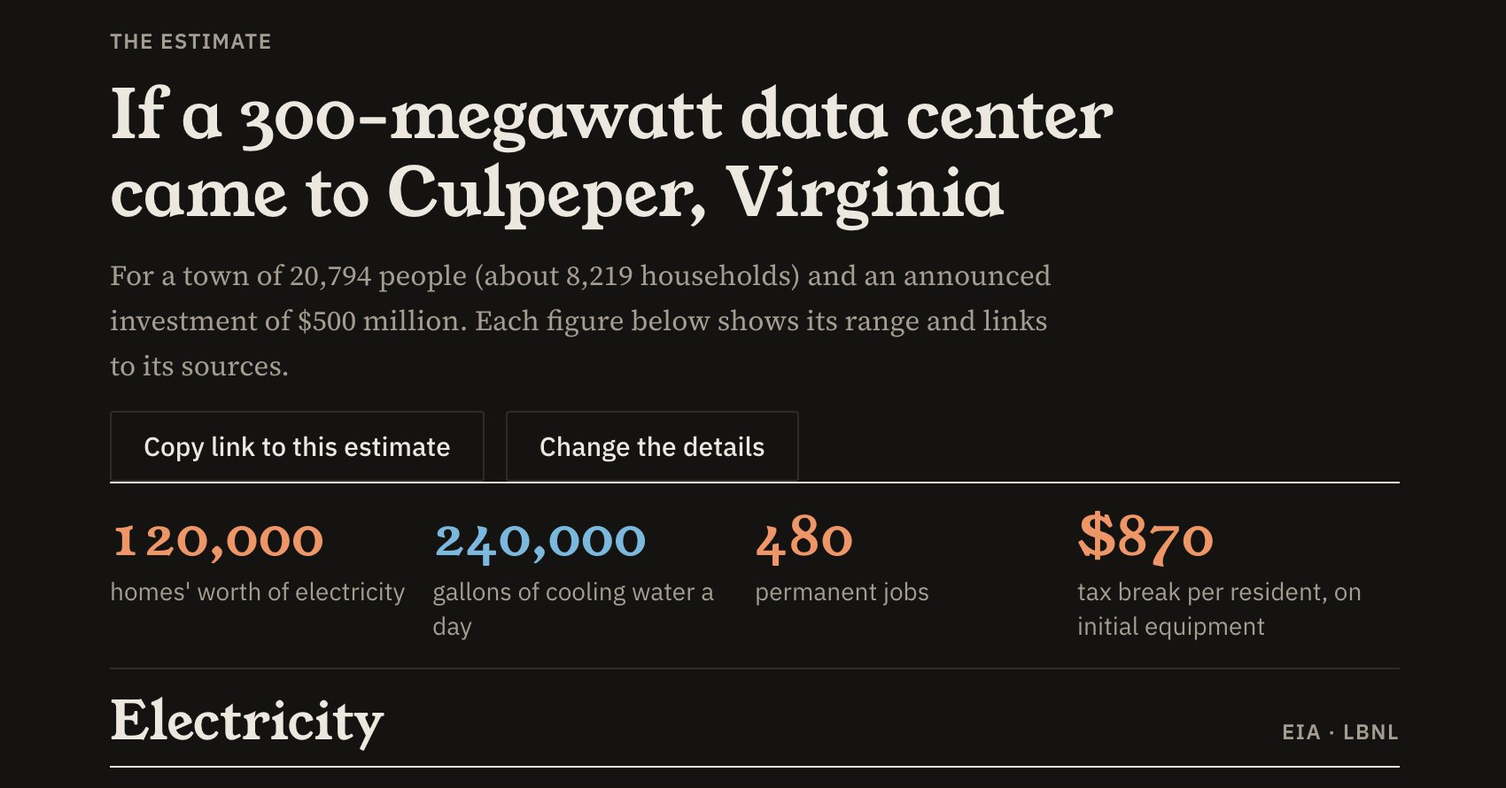
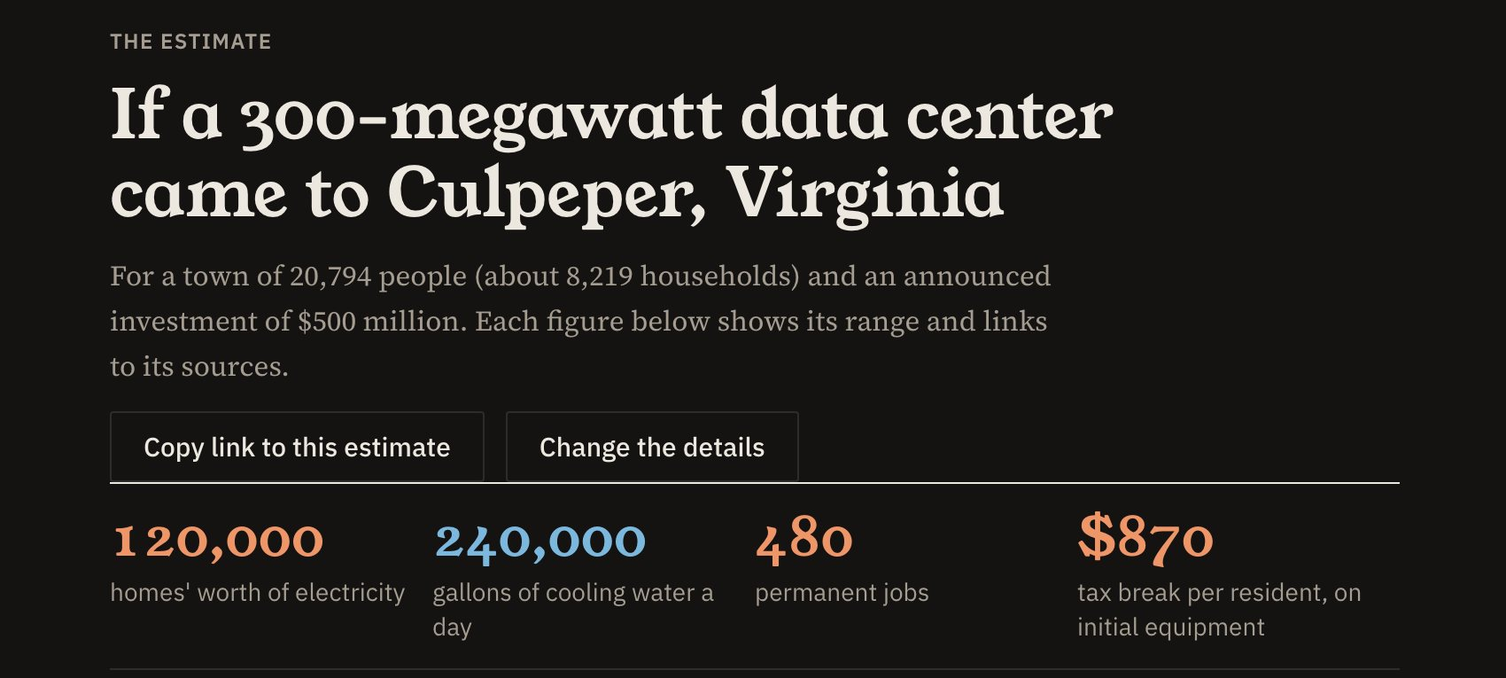
Tidy after review: short Paper Trail label, Next Door page cut to the main points

diff --git a/projects/tracewire/next-door/index.html b/projects/tracewire/next-door/index.html
@@ -47,13 +47,13 @@
   <div class="copy">
     <p class="part-of">Deep dive · <a href="/projects/tracewire/">Tracewire</a> · October 7, 2026</p>
     <h1>Next Door</h1>
-    <p>When a data center is proposed, residents usually get one number: its size in megawatts. Next Door turns that number into what it means for the town around it, in homes, gallons, jobs and dollars, before the public hearing.</p>
+    <p>When a data center is proposed, residents usually get one number: its size in megawatts. Next Door turns it into homes, gallons, jobs and dollars for their town.</p>
     <div class="btns">
       <a class="btn solid" href="https://chrisqtruong.github.io/tracewire/next-door/" target="_blank" rel="noopener">try it</a>
       <a class="btn" href="https://chrisqtruong.github.io/tracewire/" target="_blank" rel="noopener">tracewire</a>
     </div>
   </div>
-  <figure class="shot"><img src="/assets/next-door-estimate.jpg" width="1700" height="890" alt="Next Door's estimate for a hypothetical 300-megawatt data center in Culpeper, Virginia: about 120,000 homes' worth of electricity, 240,000 gallons of cooling water a day, 480 permanent jobs and an $870 tax break per resident"></figure>
+  <figure class="shot"><img src="/assets/next-door-estimate.jpg?v=2" width="1700" height="765" alt="Next Door's estimate for a hypothetical 300-megawatt data center in Culpeper, Virginia: about 120,000 homes' worth of electricity, 240,000 gallons of cooling water a day, 480 permanent jobs and an $870 tax break per resident"></figure>
 </header>
 
 <section>
@@ -61,22 +61,21 @@
     <div class="num">How</div>
     <div>
       <h2>made with claude</h2>
-      <p>I built this with Claude, Anthropic’s AI assistant. I started from a prototype I made in Lovable, then Claude checked each assumption against its source, rewrote the formulas in plain JavaScript with tests, and drew the charts. I picked the subject, steered the work and checked it before publishing. The rule is the same as for Tracewire: nothing goes up unless it was checked against a source someone actually opened.</p>
+      <p>I built it with Claude, Anthropic’s AI assistant, from a prototype I made in Lovable. Claude checked every assumption against its source and drew the charts. I picked the subject and reviewed it before publishing.</p>
     </div>
   </div>
 
   <div class="chapter reveal">
     <div class="num">What</div>
     <div>
-      <h2>four questions, in everyday terms</h2>
-      <p>You enter a town, its state, the facility’s size and the town’s population, which it can look up from the Census. Next Door estimates four things and shows a range for each. Here’s a hypothetical 300-megawatt data center in Culpeper, Virginia, a town of about 20,800 people:</p>
+      <h2>a 300-megawatt example</h2>
+      <p>A hypothetical data center in Culpeper, Virginia, a town of about 20,800 people:</p>
       <div class="stats">
-        <div class="stat"><b>15×</b><span>the electricity used by every home in town, about 120,000 homes’ worth (<a href="https://www.eia.gov/tools/faqs/faq.php?id=97&amp;t=3" target="_blank" rel="noopener">EIA</a>, <a href="https://eta-publications.lbl.gov/sites/default/files/2024-12/lbnl-2024-united-states-data-center-energy-usage-report_1.pdf" target="_blank" rel="noopener">LBNL</a>)</span></div>
-        <div class="stat"><b>240K</b><span>gallons of cooling water a day, about 89 million-gallon pools a year (<a href="https://eta-publications.lbl.gov/sites/default/files/2024-12/lbnl-2024-united-states-data-center-energy-usage-report_1.pdf" target="_blank" rel="noopener">LBNL</a>, <a href="https://www.usgs.gov/water-science-school/science/a-million-gallons-water-how-much-it" target="_blank" rel="noopener">USGS</a>)</span></div>
-        <div class="stat"><b>480</b><span>permanent jobs, after a peak of about 1,500 construction workers (<a href="https://jlarc.virginia.gov/pdfs/reports/Rpt598.pdf" target="_blank" rel="noopener">JLARC</a>)</span></div>
+        <div class="stat"><b>15×</b><span>the electricity every home in town uses (<a href="https://www.eia.gov/tools/faqs/faq.php?id=97&amp;t=3" target="_blank" rel="noopener">EIA</a>, <a href="https://eta-publications.lbl.gov/sites/default/files/2024-12/lbnl-2024-united-states-data-center-energy-usage-report_1.pdf" target="_blank" rel="noopener">LBNL</a>)</span></div>
+        <div class="stat"><b>240K</b><span>gallons of cooling water a day (<a href="https://eta-publications.lbl.gov/sites/default/files/2024-12/lbnl-2024-united-states-data-center-energy-usage-report_1.pdf" target="_blank" rel="noopener">LBNL</a>)</span></div>
+        <div class="stat"><b>480</b><span>permanent jobs (<a href="https://jlarc.virginia.gov/pdfs/reports/Rpt598.pdf" target="_blank" rel="noopener">JLARC</a>)</span></div>
       </div>
       <figure class="wide-shot"><img src="/assets/next-door-electricity.jpg" width="1700" height="820" alt="Fifteen blocks of 100 orange squares. Each block is every home in Culpeper; the data center's electricity fills almost fifteen of them." loading="lazy"><figcaption>Each block is every home in town. The data center fills almost fifteen.</figcaption></figure>
-      <p>The fourth is the tax break. Most states exempt data center equipment from sales tax. Enter the project’s announced investment, and Next Door estimates the sales tax it won’t pay and divides it across the town’s residents. For a $500 million project in Culpeper, that’s about $870 a person.</p>
     </div>
   </div>
 
@@ -84,29 +83,12 @@
     <div class="num">Checked</div>
     <div>
       <h2>checking every number</h2>
-      <p>The prototype looked finished, but its assumptions weren’t checked. Checking them against the sources changed several results:</p>
       <ul class="features">
-        <li><b>A unit mix-up.</b> The cooling-water figure was in liters per kilowatt-hour of computer power, not gallons per kilowatt-hour of the whole building. Fixing that, and using LBNL’s figure for how much of its rated power a data center draws on average, cut the water estimate by more than half (<a href="https://eta-publications.lbl.gov/sites/default/files/2024-12/lbnl-2024-united-states-data-center-energy-usage-report_1.pdf" target="_blank" rel="noopener">LBNL</a>).</li>
-        <li><b>The wrong states.</b> The list of states with a data center tax exemption was wrong for several states. It now comes from Virginia’s legislative auditors, who counted 34 in 2024 (<a href="https://jlarc.virginia.gov/pdfs/reports/Rpt598.pdf" target="_blank" rel="noopener">JLARC</a>).</li>
-        <li><b>Numbers with no source.</b> Construction workers per megawatt, equipment spending per megawatt and the volume of an Olympic pool (published depths differ) couldn’t be backed up, so they came out. JLARC’s per-facility figures and USGS’s million-gallon pool replaced them.</li>
-        <li><b>No made-up ranges.</b> Where a source gives one figure, the page says so instead of inventing a range.</li>
+        <li><b>A unit mix-up.</b> Fixing it, with one other correction, more than halved the water estimate.</li>
+        <li><b>The wrong states.</b> The tax-break list now comes from Virginia’s auditors.</li>
+        <li><b>No unsourced numbers.</b> Anything without a source came out.</li>
       </ul>
       <figure class="wide-shot"><img src="/assets/next-door-states.jpg" width="1700" height="1120" alt="A tile map of U.S. states. 34 states are filled orange for having a data center sales tax exemption in 2024; Virginia is outlined." loading="lazy"><figcaption>The 34 states with a data center sales tax exemption in 2024, from JLARC.</figcaption></figure>
-    </div>
-  </div>
-
-  <div class="chapter reveal">
-    <div class="num">Ask</div>
-    <div>
-      <h2>what it can’t tell you</h2>
-      <p>These are planning-level estimates from national and Virginia averages, not predictions for one project. The people proposing it can give the real figures, so the page ends with questions to ask at the hearing:</p>
-      <ul class="features">
-        <li><b>Water.</b> Which cooling system will it use, and where will the water come from?</li>
-        <li><b>Power.</b> Who pays for new power lines, substations and power plants?</li>
-        <li><b>Jobs.</b> How many permanent jobs will go to people who already live here?</li>
-        <li><b>Taxes.</b> What state and local tax breaks has the developer applied for, and for how long?</li>
-      </ul>
-      <p>The <a href="https://chrisqtruong.github.io/tracewire/next-door/" target="_blank" rel="noopener">tool itself</a> shows every assumption, its range and its source.</p>
     </div>
   </div>
 
@@ -114,7 +96,7 @@
     <div class="num">Sources</div>
     <div>
       <h2>sources</h2>
-      <p>Every figure in Next Door comes from these. Each was checked on October 7, 2026; corrections are welcome by email.</p>
+      <p>Checked October 7, 2026. Corrections are welcome by email.</p>
       <ul style="list-style:none;padding:0;margin:0;display:grid;gap:5px;font-size:15px;line-height:1.45">
         <li><a href="https://eta-publications.lbl.gov/sites/default/files/2024-12/lbnl-2024-united-states-data-center-energy-usage-report_1.pdf" target="_blank" rel="noopener">Lawrence Berkeley National Laboratory, 2024 United States Data Center Energy Usage Report</a></li>
         <li><a href="https://jlarc.virginia.gov/pdfs/reports/Rpt598.pdf" target="_blank" rel="noopener">JLARC, Data Centers in Virginia (Report 598, 2024)</a></li>

diff --git a/index.html b/index.html
@@ -21,7 +21,7 @@
 <link href="https://fonts.googleapis.com/css2?family=Roboto+Mono:wght@400;500;600&display=swap" rel="stylesheet">
 <!-- just the letters the greetings need, in serif faces that sit next to Young Serif -->
 <link href="https://fonts.googleapis.com/css2?family=Noto+Serif:wght@600&family=Noto+Serif+SC:wght@700&family=Noto+Serif+KR:wght@700&family=Noto+Naskh+Arabic:wght@700&display=swap&text=xin%20ch%C3%A0o%20ti%E1%BA%BFng%20Vi%E1%BB%87t%20%E4%BD%A0%E5%A5%BD%E4%B8%AD%E6%96%87%20%EC%95%88%EB%85%95%ED%95%9C%EA%B5%AD%EC%96%B4%20%D8%B3%D9%84%D8%A7%D9%85%20%D9%81%D8%A7%D8%B1%D8%B3%DB%8C%20%D9%85%D8%B1%D8%AD%D8%A8%D8%A7%20%D8%A7%D9%84%D8%B9%D8%B1%D8%A8%D9%8A%D8%A9" rel="stylesheet">
-<link rel="stylesheet" href="/assets/site.css?v=20261008003501">
+<link rel="stylesheet" href="/assets/site.css?v=20261008004250">
 <script>
   // light or dark before anything paints: the visitor's choice, else light
   /* light by day, dark by night where the visitor is (from their own clock and time zone; flipping the toggle holds for that visit) */(function () { var d = document.documentElement, m; try { localStorage.removeItem('mode'); m = sessionStorage.getItem('mode'); } catch (e) {} if (!m) { try { var n = new Date(), y = n.getFullYear(), tz = Intl.DateTimeFormat().resolvedOptions().timeZone || '', s = /^(Australia|Antarctica)|^Pacific\/(Auckland|Chatham|Fiji)|^America\/(Santiago|Argentina|Sao_Paulo|Montevideo|Asuncion|Lima|La_Paz)|^Africa\/(Johannesburg|Maputo|Harare|Windhoek|Lusaka)/.test(tz), r = Math.PI / 180, lat = (s ? -30 : /^Europe|^Atlantic\/Reykjavik/.test(tz) ? 50 : /^Asia\/(Ho_Chi_Minh|Saigon|Bangkok|Manila|Singapore|Jakarta|Kuala_Lumpur|Kolkata|Calcutta|Colombo|Dhaka|Yangon|Phnom_Penh)|^Africa|^America\/(Mexico_City|Bogota|Caracas|Panama|Guatemala|Costa_Rica)|^Pacific\/Honolulu/.test(tz) ? 13 : 40) * r, day = (n - new Date(y, 0, 0)) / 864e5, dec = -23.44 * r * Math.cos(2 * Math.PI * (day + 10) / 365), c = (Math.sin(-0.833 * r) - Math.sin(lat) * Math.sin(dec)) / (Math.cos(lat) * Math.cos(dec)), half = Math.acos(Math.max(-1, Math.min(1, c))) / r / 15, std = Math.max(new Date(y, 0, 1).getTimezoneOffset(), new Date(y, 6, 1).getTimezoneOffset()), noon = 12 + (std - n.getTimezoneOffset()) / 60, h = n.getHours() + n.getMinutes() / 60; m = h > noon - half && h < noon + half ? 'light' : 'dark'; } catch (e) { m = 'light'; } } d.dataset.mode = m; })();
@@ -53,7 +53,7 @@
 </section>
 
 <section class="list" id="paper-trail">
-  <h2 class="list-label"><a href="/projects/paper-trail/">Paper Trail</a>: sourced public records of how big industries affect our communities</h2>
+  <h2 class="list-label"><a href="/projects/paper-trail/">Paper Trail</a></h2>
   <ol class="years">
     <li><a class="item" href="/projects/bankrolled/"><span class="t">Bankrolled</span><span class="m">Follows the money behind American gambling.</span></a><a class="dive" href="/projects/bankrolled/kalshi/">Following the money: Kalshi</a></li>
     <li><a class="item" href="/projects/tracewire/"><span class="t">Tracewire</span><span class="m">Follows tech, AI and data center deals, and who they affect.</span></a><a class="dive" href="/projects/tracewire/next-door/">Next Door</a></li>
@@ -129,7 +129,7 @@
 </footer>
 
 <script type="module">
-import { applyVoxTheme, themeDots, currentVoxTheme, SITE_THEMES, scrollIdle, isScrolling } from '/assets/site.js?v=20261008003501';
+import { applyVoxTheme, themeDots, currentVoxTheme, SITE_THEMES, scrollIdle, isScrolling } from '/assets/site.js?v=20261008004250';
 
 /* ---------- themes: each intro line brings its own; the dots let visitors choose ---------- */
 const vox = document.getElementById('vox');

diff --git a/projects/vox2/index.html b/projects/vox2/index.html
@@ -21,7 +21,7 @@
 <link href="https://fonts.googleapis.com/css2?family=Roboto+Mono:wght@400;500;600&display=swap" rel="stylesheet">
 <!-- just the letters the greetings need, in serif faces that sit next to Young Serif -->
 <link href="https://fonts.googleapis.com/css2?family=Noto+Serif:wght@600&family=Noto+Serif+SC:wght@700&family=Noto+Serif+KR:wght@700&family=Noto+Naskh+Arabic:wght@700&display=swap&text=xin%20ch%C3%A0o%20ti%E1%BA%BFng%20Vi%E1%BB%87t%20%E4%BD%A0%E5%A5%BD%E4%B8%AD%E6%96%87%20%EC%95%88%EB%85%95%ED%95%9C%EA%B5%AD%EC%96%B4%20%D8%B3%D9%84%D8%A7%D9%85%20%D9%81%D8%A7%D8%B1%D8%B3%DB%8C%20%D9%85%D8%B1%D8%AD%D8%A8%D8%A7%20%D8%A7%D9%84%D8%B9%D8%B1%D8%A8%D9%8A%D8%A9" rel="stylesheet">
-<link rel="stylesheet" href="/assets/site.css?v=20261008003501">
+<link rel="stylesheet" href="/assets/site.css?v=20261008004250">
 <script>
   // light or dark before anything paints: the visitor's choice, else light
   /* light by day, dark by night where the visitor is (from their own clock and time zone; flipping the toggle holds for that visit) */(function () { var d = document.documentElement, m; try { localStorage.removeItem('mode'); m = sessionStorage.getItem('mode'); } catch (e) {} if (!m) { try { var n = new Date(), y = n.getFullYear(), tz = Intl.DateTimeFormat().resolvedOptions().timeZone || '', s = /^(Australia|Antarctica)|^Pacific\/(Auckland|Chatham|Fiji)|^America\/(Santiago|Argentina|Sao_Paulo|Montevideo|Asuncion|Lima|La_Paz)|^Africa\/(Johannesburg|Maputo|Harare|Windhoek|Lusaka)/.test(tz), r = Math.PI / 180, lat = (s ? -30 : /^Europe|^Atlantic\/Reykjavik/.test(tz) ? 50 : /^Asia\/(Ho_Chi_Minh|Saigon|Bangkok|Manila|Singapore|Jakarta|Kuala_Lumpur|Kolkata|Calcutta|Colombo|Dhaka|Yangon|Phnom_Penh)|^Africa|^America\/(Mexico_City|Bogota|Caracas|Panama|Guatemala|Costa_Rica)|^Pacific\/Honolulu/.test(tz) ? 13 : 40) * r, day = (n - new Date(y, 0, 0)) / 864e5, dec = -23.44 * r * Math.cos(2 * Math.PI * (day + 10) / 365), c = (Math.sin(-0.833 * r) - Math.sin(lat) * Math.sin(dec)) / (Math.cos(lat) * Math.cos(dec)), half = Math.acos(Math.max(-1, Math.min(1, c))) / r / 15, std = Math.max(new Date(y, 0, 1).getTimezoneOffset(), new Date(y, 6, 1).getTimezoneOffset()), noon = 12 + (std - n.getTimezoneOffset()) / 60, h = n.getHours() + n.getMinutes() / 60; m = h > noon - half && h < noon + half ? 'light' : 'dark'; } catch (e) { m = 'light'; } } d.dataset.mode = m; })();
@@ -227,9 +227,9 @@
   <small>© 2026 Chris Truong · Baltimore</small>
 </footer>
 
-<script type="module" src="/assets/vox2-charts.js?v=20261008003501"></script>
+<script type="module" src="/assets/vox2-charts.js?v=20261008004250"></script>
 <script type="module">
-import { SITE_THEMES, applyVoxTheme, themeDots, pickedVoxTheme, showVoxShot } from '/assets/site.js?v=20261008003501';
+import { SITE_THEMES, applyVoxTheme, themeDots, pickedVoxTheme, showVoxShot } from '/assets/site.js?v=20261008004250';
 // starts as the card you clicked on the home page; picks are remembered for this visit
 const pick = name => { pickedVoxTheme(name); applyVoxTheme(name, 'main'); showVoxShot(name); };
 const names = SITE_THEMES;

diff --git a/projects/purrmodoro/index.html b/projects/purrmodoro/index.html
@@ -21,7 +21,7 @@
 <link href="https://fonts.googleapis.com/css2?family=Roboto+Mono:wght@400;500;600&display=swap" rel="stylesheet">
 <!-- just the letters the greetings need, in serif faces that sit next to Young Serif -->
 <link href="https://fonts.googleapis.com/css2?family=Noto+Serif:wght@600&family=Noto+Serif+SC:wght@700&family=Noto+Serif+KR:wght@700&family=Noto+Naskh+Arabic:wght@700&display=swap&text=xin%20ch%C3%A0o%20ti%E1%BA%BFng%20Vi%E1%BB%87t%20%E4%BD%A0%E5%A5%BD%E4%B8%AD%E6%96%87%20%EC%95%88%EB%85%95%ED%95%9C%EA%B5%AD%EC%96%B4%20%D8%B3%D9%84%D8%A7%D9%85%20%D9%81%D8%A7%D8%B1%D8%B3%DB%8C%20%D9%85%D8%B1%D8%AD%D8%A8%D8%A7%20%D8%A7%D9%84%D8%B9%D8%B1%D8%A8%D9%8A%D8%A9" rel="stylesheet">
-<link rel="stylesheet" href="/assets/site.css?v=20261008003501">
+<link rel="stylesheet" href="/assets/site.css?v=20261008004250">
 <script>
   // light or dark before anything paints: the visitor's choice, else light
   /* light by day, dark by night where the visitor is (from their own clock and time zone; flipping the toggle holds for that visit) */(function () { var d = document.documentElement, m; try { localStorage.removeItem('mode'); m = sessionStorage.getItem('mode'); } catch (e) {} if (!m) { try { var n = new Date(), y = n.getFullYear(), tz = Intl.DateTimeFormat().resolvedOptions().timeZone || '', s = /^(Australia|Antarctica)|^Pacific\/(Auckland|Chatham|Fiji)|^America\/(Santiago|Argentina|Sao_Paulo|Montevideo|Asuncion|Lima|La_Paz)|^Africa\/(Johannesburg|Maputo|Harare|Windhoek|Lusaka)/.test(tz), r = Math.PI / 180, lat = (s ? -30 : /^Europe|^Atlantic\/Reykjavik/.test(tz) ? 50 : /^Asia\/(Ho_Chi_Minh|Saigon|Bangkok|Manila|Singapore|Jakarta|Kuala_Lumpur|Kolkata|Calcutta|Colombo|Dhaka|Yangon|Phnom_Penh)|^Africa|^America\/(Mexico_City|Bogota|Caracas|Panama|Guatemala|Costa_Rica)|^Pacific\/Honolulu/.test(tz) ? 13 : 40) * r, day = (n - new Date(y, 0, 0)) / 864e5, dec = -23.44 * r * Math.cos(2 * Math.PI * (day + 10) / 365), c = (Math.sin(-0.833 * r) - Math.sin(lat) * Math.sin(dec)) / (Math.cos(lat) * Math.cos(dec)), half = Math.acos(Math.max(-1, Math.min(1, c))) / r / 15, std = Math.max(new Date(y, 0, 1).getTimezoneOffset(), new Date(y, 6, 1).getTimezoneOffset()), noon = 12 + (std - n.getTimezoneOffset()) / 60, h = n.getHours() + n.getMinutes() / 60; m = h > noon - half && h < noon + half ? 'light' : 'dark'; } catch (e) { m = 'light'; } } d.dataset.mode = m; })();
@@ -124,6 +124,6 @@
   <small>© 2026 Chris Truong · Baltimore</small>
 </footer>
 
-<script type="module" src="/assets/site.js?v=20261008003501"></script>
+<script type="module" src="/assets/site.js?v=20261008004250"></script>
 </body>
 </html>

diff --git a/projects/utter/index.html b/projects/utter/index.html
@@ -21,7 +21,7 @@
 <link href="https://fonts.googleapis.com/css2?family=Roboto+Mono:wght@400;500;600&display=swap" rel="stylesheet">
 <!-- just the letters the greetings need, in serif faces that sit next to Young Serif -->
 <link href="https://fonts.googleapis.com/css2?family=Noto+Serif:wght@600&family=Noto+Serif+SC:wght@700&family=Noto+Serif+KR:wght@700&family=Noto+Naskh+Arabic:wght@700&display=swap&text=xin%20ch%C3%A0o%20ti%E1%BA%BFng%20Vi%E1%BB%87t%20%E4%BD%A0%E5%A5%BD%E4%B8%AD%E6%96%87%20%EC%95%88%EB%85%95%ED%95%9C%EA%B5%AD%EC%96%B4%20%D8%B3%D9%84%D8%A7%D9%85%20%D9%81%D8%A7%D8%B1%D8%B3%DB%8C%20%D9%85%D8%B1%D8%AD%D8%A8%D8%A7%20%D8%A7%D9%84%D8%B9%D8%B1%D8%A8%D9%8A%D8%A9" rel="stylesheet">
-<link rel="stylesheet" href="/assets/site.css?v=20261008003501">
+<link rel="stylesheet" href="/assets/site.css?v=20261008004250">
 <script>
   // light or dark before anything paints: the visitor's choice, else light
   /* light by day, dark by night where the visitor is (from their own clock and time zone; flipping the toggle holds for that visit) */(function () { var d = document.documentElement, m; try { localStorage.removeItem('mode'); m = sessionStorage.getItem('mode'); } catch (e) {} if (!m) { try { var n = new Date(), y = n.getFullYear(), tz = Intl.DateTimeFormat().resolvedOptions().timeZone || '', s = /^(Australia|Antarctica)|^Pacific\/(Auckland|Chatham|Fiji)|^America\/(Santiago|Argentina|Sao_Paulo|Montevideo|Asuncion|Lima|La_Paz)|^Africa\/(Johannesburg|Maputo|Harare|Windhoek|Lusaka)/.test(tz), r = Math.PI / 180, lat = (s ? -30 : /^Europe|^Atlantic\/Reykjavik/.test(tz) ? 50 : /^Asia\/(Ho_Chi_Minh|Saigon|Bangkok|Manila|Singapore|Jakarta|Kuala_Lumpur|Kolkata|Calcutta|Colombo|Dhaka|Yangon|Phnom_Penh)|^Africa|^America\/(Mexico_City|Bogota|Caracas|Panama|Guatemala|Costa_Rica)|^Pacific\/Honolulu/.test(tz) ? 13 : 40) * r, day = (n - new Date(y, 0, 0)) / 864e5, dec = -23.44 * r * Math.cos(2 * Math.PI * (day + 10) / 365), c = (Math.sin(-0.833 * r) - Math.sin(lat) * Math.sin(dec)) / (Math.cos(lat) * Math.cos(dec)), half = Math.acos(Math.max(-1, Math.min(1, c))) / r / 15, std = Math.max(new Date(y, 0, 1).getTimezoneOffset(), new Date(y, 6, 1).getTimezoneOffset()), noon = 12 + (std - n.getTimezoneOffset()) / 60, h = n.getHours() + n.getMinutes() / 60; m = h > noon - half && h < noon + half ? 'light' : 'dark'; } catch (e) { m = 'light'; } } d.dataset.mode = m; })();
@@ -155,6 +155,6 @@
   <small>© 2026 Chris Truong · Baltimore</small>
 </footer>
 
-<script type="module" src="/assets/site.js?v=20261008003501"></script>
+<script type="module" src="/assets/site.js?v=20261008004250"></script>
 </body>
 </html>

diff --git a/projects/swear-jar/index.html b/projects/swear-jar/index.html
@@ -19,7 +19,7 @@
 <link rel="preconnect" href="https://fonts.googleapis.com">
 <link rel="preconnect" href="https://fonts.gstatic.com" crossorigin>
 <link href="https://fonts.googleapis.com/css2?family=Roboto+Mono:wght@400;500;600&display=swap" rel="stylesheet">
-<link rel="stylesheet" href="/assets/site.css?v=20261008003501">
+<link rel="stylesheet" href="/assets/site.css?v=20261008004250">
 <script>
   // light or dark before anything paints: the visitor's choice, else light
   /* light by day, dark by night where the visitor is (from their own clock and time zone; flipping the toggle holds for that visit) */(function () { var d = document.documentElement, m; try { localStorage.removeItem('mode'); m = sessionStorage.getItem('mode'); } catch (e) {} if (!m) { try { var n = new Date(), y = n.getFullYear(), tz = Intl.DateTimeFormat().resolvedOptions().timeZone || '', s = /^(Australia|Antarctica)|^Pacific\/(Auckland|Chatham|Fiji)|^America\/(Santiago|Argentina|Sao_Paulo|Montevideo|Asuncion|Lima|La_Paz)|^Africa\/(Johannesburg|Maputo|Harare|Windhoek|Lusaka)/.test(tz), r = Math.PI / 180, lat = (s ? -30 : /^Europe|^Atlantic\/Reykjavik/.test(tz) ? 50 : /^Asia\/(Ho_Chi_Minh|Saigon|Bangkok|Manila|Singapore|Jakarta|Kuala_Lumpur|Kolkata|Calcutta|Colombo|Dhaka|Yangon|Phnom_Penh)|^Africa|^America\/(Mexico_City|Bogota|Caracas|Panama|Guatemala|Costa_Rica)|^Pacific\/Honolulu/.test(tz) ? 13 : 40) * r, day = (n - new Date(y, 0, 0)) / 864e5, dec = -23.44 * r * Math.cos(2 * Math.PI * (day + 10) / 365), c = (Math.sin(-0.833 * r) - Math.sin(lat) * Math.sin(dec)) / (Math.cos(lat) * Math.cos(dec)), half = Math.acos(Math.max(-1, Math.min(1, c))) / r / 15, std = Math.max(new Date(y, 0, 1).getTimezoneOffset(), new Date(y, 6, 1).getTimezoneOffset()), noon = 12 + (std - n.getTimezoneOffset()) / 60, h = n.getHours() + n.getMinutes() / 60; m = h > noon - half && h < noon + half ? 'light' : 'dark'; } catch (e) { m = 'light'; } } d.dataset.mode = m; })();
@@ -131,6 +131,6 @@ Swear Jar now runs from login: http://localhost:8642</pre>
   <small>© 2026 Chris Truong · Baltimore</small>
 </footer>
 
-<script type="module" src="/assets/site.js?v=20261008003501"></script>
+<script type="module" src="/assets/site.js?v=20261008004250"></script>
 </body>
 </html>

diff --git a/projects/bankrolled/index.html b/projects/bankrolled/index.html
@@ -19,7 +19,7 @@
 <link rel="preconnect" href="https://fonts.googleapis.com">
 <link rel="preconnect" href="https://fonts.gstatic.com" crossorigin>
 <link href="https://fonts.googleapis.com/css2?family=Roboto+Mono:wght@400;500;600&display=swap" rel="stylesheet">
-<link rel="stylesheet" href="/assets/site.css?v=20261008003501">
+<link rel="stylesheet" href="/assets/site.css?v=20261008004250">
 <script>
   // light or dark before anything paints: the visitor's choice, else light
   /* light by day, dark by night where the visitor is (from their own clock and time zone; flipping the toggle holds for that visit) */(function () { var d = document.documentElement, m; try { localStorage.removeItem('mode'); m = sessionStorage.getItem('mode'); } catch (e) {} if (!m) { try { var n = new Date(), y = n.getFullYear(), tz = Intl.DateTimeFormat().resolvedOptions().timeZone || '', s = /^(Australia|Antarctica)|^Pacific\/(Auckland|Chatham|Fiji)|^America\/(Santiago|Argentina|Sao_Paulo|Montevideo|Asuncion|Lima|La_Paz)|^Africa\/(Johannesburg|Maputo|Harare|Windhoek|Lusaka)/.test(tz), r = Math.PI / 180, lat = (s ? -30 : /^Europe|^Atlantic\/Reykjavik/.test(tz) ? 50 : /^Asia\/(Ho_Chi_Minh|Saigon|Bangkok|Manila|Singapore|Jakarta|Kuala_Lumpur|Kolkata|Calcutta|Colombo|Dhaka|Yangon|Phnom_Penh)|^Africa|^America\/(Mexico_City|Bogota|Caracas|Panama|Guatemala|Costa_Rica)|^Pacific\/Honolulu/.test(tz) ? 13 : 40) * r, day = (n - new Date(y, 0, 0)) / 864e5, dec = -23.44 * r * Math.cos(2 * Math.PI * (day + 10) / 365), c = (Math.sin(-0.833 * r) - Math.sin(lat) * Math.sin(dec)) / (Math.cos(lat) * Math.cos(dec)), half = Math.acos(Math.max(-1, Math.min(1, c))) / r / 15, std = Math.max(new Date(y, 0, 1).getTimezoneOffset(), new Date(y, 6, 1).getTimezoneOffset()), noon = 12 + (std - n.getTimezoneOffset()) / 60, h = n.getHours() + n.getMinutes() / 60; m = h > noon - half && h < noon + half ? 'light' : 'dark'; } catch (e) { m = 'light'; } } d.dataset.mode = m; })();
@@ -113,6 +113,6 @@
   <small>© 2026 Chris Truong · Baltimore</small>
 </footer>
 
-<script type="module" src="/assets/site.js?v=20261008003501"></script>
+<script type="module" src="/assets/site.js?v=20261008004250"></script>
 </body>
 </html>

diff --git a/projects/paper-trail/index.html b/projects/paper-trail/index.html
@@ -19,7 +19,7 @@
 <link rel="preconnect" href="https://fonts.googleapis.com">
 <link rel="preconnect" href="https://fonts.gstatic.com" crossorigin>
 <link href="https://fonts.googleapis.com/css2?family=Roboto+Mono:wght@400;500;600&display=swap" rel="stylesheet">
-<link rel="stylesheet" href="/assets/site.css?v=20261008003501">
+<link rel="stylesheet" href="/assets/site.css?v=20261008004250">
 <script>
   // light or dark before anything paints: the visitor's choice, else light
   /* light by day, dark by night where the visitor is (from their own clock and time zone; flipping the toggle holds for that visit) */(function () { var d = document.documentElement, m; try { localStorage.removeItem('mode'); m = sessionStorage.getItem('mode'); } catch (e) {} if (!m) { try { var n = new Date(), y = n.getFullYear(), tz = Intl.DateTimeFormat().resolvedOptions().timeZone || '', s = /^(Australia|Antarctica)|^Pacific\/(Auckland|Chatham|Fiji)|^America\/(Santiago|Argentina|Sao_Paulo|Montevideo|Asuncion|Lima|La_Paz)|^Africa\/(Johannesburg|Maputo|Harare|Windhoek|Lusaka)/.test(tz), r = Math.PI / 180, lat = (s ? -30 : /^Europe|^Atlantic\/Reykjavik/.test(tz) ? 50 : /^Asia\/(Ho_Chi_Minh|Saigon|Bangkok|Manila|Singapore|Jakarta|Kuala_Lumpur|Kolkata|Calcutta|Colombo|Dhaka|Yangon|Phnom_Penh)|^Africa|^America\/(Mexico_City|Bogota|Caracas|Panama|Guatemala|Costa_Rica)|^Pacific\/Honolulu/.test(tz) ? 13 : 40) * r, day = (n - new Date(y, 0, 0)) / 864e5, dec = -23.44 * r * Math.cos(2 * Math.PI * (day + 10) / 365), c = (Math.sin(-0.833 * r) - Math.sin(lat) * Math.sin(dec)) / (Math.cos(lat) * Math.cos(dec)), half = Math.acos(Math.max(-1, Math.min(1, c))) / r / 15, std = Math.max(new Date(y, 0, 1).getTimezoneOffset(), new Date(y, 6, 1).getTimezoneOffset()), noon = 12 + (std - n.getTimezoneOffset()) / 60, h = n.getHours() + n.getMinutes() / 60; m = h > noon - half && h < noon + half ? 'light' : 'dark'; } catch (e) { m = 'light'; } } d.dataset.mode = m; })();
@@ -160,6 +160,6 @@
   <small>© 2026 Chris Truong · Baltimore</small>
 </footer>
 
-<script type="module" src="/assets/site.js?v=20261008003501"></script>
+<script type="module" src="/assets/site.js?v=20261008004250"></script>
 </body>
 </html>

diff --git a/projects/tracewire/index.html b/projects/tracewire/index.html
@@ -19,7 +19,7 @@
 <link rel="preconnect" href="https://fonts.googleapis.com">
 <link rel="preconnect" href="https://fonts.gstatic.com" crossorigin>
 <link href="https://fonts.googleapis.com/css2?family=Roboto+Mono:wght@400;500;600&display=swap" rel="stylesheet">
-<link rel="stylesheet" href="/assets/site.css?v=20261008003501">
+<link rel="stylesheet" href="/assets/site.css?v=20261008004250">
 <script>
   // light or dark before anything paints: the visitor's choice, else light
   /* light by day, dark by night where the visitor is (from their own clock and time zone; flipping the toggle holds for that visit) */(function () { var d = document.documentElement, m; try { localStorage.removeItem('mode'); m = sessionStorage.getItem('mode'); } catch (e) {} if (!m) { try { var n = new Date(), y = n.getFullYear(), tz = Intl.DateTimeFormat().resolvedOptions().timeZone || '', s = /^(Australia|Antarctica)|^Pacific\/(Auckland|Chatham|Fiji)|^America\/(Santiago|Argentina|Sao_Paulo|Montevideo|Asuncion|Lima|La_Paz)|^Africa\/(Johannesburg|Maputo|Harare|Windhoek|Lusaka)/.test(tz), r = Math.PI / 180, lat = (s ? -30 : /^Europe|^Atlantic\/Reykjavik/.test(tz) ? 50 : /^Asia\/(Ho_Chi_Minh|Saigon|Bangkok|Manila|Singapore|Jakarta|Kuala_Lumpur|Kolkata|Calcutta|Colombo|Dhaka|Yangon|Phnom_Penh)|^Africa|^America\/(Mexico_City|Bogota|Caracas|Panama|Guatemala|Costa_Rica)|^Pacific\/Honolulu/.test(tz) ? 13 : 40) * r, day = (n - new Date(y, 0, 0)) / 864e5, dec = -23.44 * r * Math.cos(2 * Math.PI * (day + 10) / 365), c = (Math.sin(-0.833 * r) - Math.sin(lat) * Math.sin(dec)) / (Math.cos(lat) * Math.cos(dec)), half = Math.acos(Math.max(-1, Math.min(1, c))) / r / 15, std = Math.max(new Date(y, 0, 1).getTimezoneOffset(), new Date(y, 6, 1).getTimezoneOffset()), noon = 12 + (std - n.getTimezoneOffset()) / 60, h = n.getHours() + n.getMinutes() / 60; m = h > noon - half && h < noon + half ? 'light' : 'dark'; } catch (e) { m = 'light'; } } d.dataset.mode = m; })();
@@ -120,6 +120,6 @@
   <small>© 2026 Chris Truong · Baltimore</small>
 </footer>
 
-<script type="module" src="/assets/site.js?v=20261008003501"></script>
+<script type="module" src="/assets/site.js?v=20261008004250"></script>
 </body>
 </html>

diff --git a/projects/weather-dots/index.html b/projects/weather-dots/index.html
@@ -19,7 +19,7 @@
 <link rel="preconnect" href="https://fonts.googleapis.com">
 <link rel="preconnect" href="https://fonts.gstatic.com" crossorigin>
 <link href="https://fonts.googleapis.com/css2?family=Roboto+Mono:wght@400;500;600&display=swap" rel="stylesheet">
-<link rel="stylesheet" href="/assets/site.css?v=20261008003501">
+<link rel="stylesheet" href="/assets/site.css?v=20261008004250">
 <script>
   // light or dark before anything paints: the visitor's choice, else light
   /* light by day, dark by night where the visitor is (from their own clock and time zone; flipping the toggle holds for that visit) */(function () { var d = document.documentElement, m; try { localStorage.removeItem('mode'); m = sessionStorage.getItem('mode'); } catch (e) {} if (!m) { try { var n = new Date(), y = n.getFullYear(), tz = Intl.DateTimeFormat().resolvedOptions().timeZone || '', s = /^(Australia|Antarctica)|^Pacific\/(Auckland|Chatham|Fiji)|^America\/(Santiago|Argentina|Sao_Paulo|Montevideo|Asuncion|Lima|La_Paz)|^Africa\/(Johannesburg|Maputo|Harare|Windhoek|Lusaka)/.test(tz), r = Math.PI / 180, lat = (s ? -30 : /^Europe|^Atlantic\/Reykjavik/.test(tz) ? 50 : /^Asia\/(Ho_Chi_Minh|Saigon|Bangkok|Manila|Singapore|Jakarta|Kuala_Lumpur|Kolkata|Calcutta|Colombo|Dhaka|Yangon|Phnom_Penh)|^Africa|^America\/(Mexico_City|Bogota|Caracas|Panama|Guatemala|Costa_Rica)|^Pacific\/Honolulu/.test(tz) ? 13 : 40) * r, day = (n - new Date(y, 0, 0)) / 864e5, dec = -23.44 * r * Math.cos(2 * Math.PI * (day + 10) / 365), c = (Math.sin(-0.833 * r) - Math.sin(lat) * Math.sin(dec)) / (Math.cos(lat) * Math.cos(dec)), half = Math.acos(Math.max(-1, Math.min(1, c))) / r / 15, std = Math.max(new Date(y, 0, 1).getTimezoneOffset(), new Date(y, 6, 1).getTimezoneOffset()), noon = 12 + (std - n.getTimezoneOffset()) / 60, h = n.getHours() + n.getMinutes() / 60; m = h > noon - half && h < noon + half ? 'light' : 'dark'; } catch (e) { m = 'light'; } } d.dataset.mode = m; })();
@@ -121,6 +121,6 @@
   <small>© 2026 Chris Truong · Baltimore</small>
 </footer>
 
-<script type="module" src="/assets/site.js?v=20261008003501"></script>
+<script type="module" src="/assets/site.js?v=20261008004250"></script>
 </body>
 </html>

diff --git a/photos/index.html b/photos/index.html
@@ -19,7 +19,7 @@
 <link rel="preconnect" href="https://fonts.googleapis.com">
 <link rel="preconnect" href="https://fonts.gstatic.com" crossorigin>
 <link href="https://fonts.googleapis.com/css2?family=Roboto+Mono:wght@400;500;600&display=swap" rel="stylesheet">
-<link rel="stylesheet" href="/assets/site.css?v=20261008003501">
+<link rel="stylesheet" href="/assets/site.css?v=20261008004250">
 <script>
   // light or dark before anything paints: the visitor's choice, else light
   /* light by day, dark by night where the visitor is (from their own clock and time zone; flipping the toggle holds for that visit) */(function () { var d = document.documentElement, m; try { localStorage.removeItem('mode'); m = sessionStorage.getItem('mode'); } catch (e) {} if (!m) { try { var n = new Date(), y = n.getFullYear(), tz = Intl.DateTimeFormat().resolvedOptions().timeZone || '', s = /^(Australia|Antarctica)|^Pacific\/(Auckland|Chatham|Fiji)|^America\/(Santiago|Argentina|Sao_Paulo|Montevideo|Asuncion|Lima|La_Paz)|^Africa\/(Johannesburg|Maputo|Harare|Windhoek|Lusaka)/.test(tz), r = Math.PI / 180, lat = (s ? -30 : /^Europe|^Atlantic\/Reykjavik/.test(tz) ? 50 : /^Asia\/(Ho_Chi_Minh|Saigon|Bangkok|Manila|Singapore|Jakarta|Kuala_Lumpur|Kolkata|Calcutta|Colombo|Dhaka|Yangon|Phnom_Penh)|^Africa|^America\/(Mexico_City|Bogota|Caracas|Panama|Guatemala|Costa_Rica)|^Pacific\/Honolulu/.test(tz) ? 13 : 40) * r, day = (n - new Date(y, 0, 0)) / 864e5, dec = -23.44 * r * Math.cos(2 * Math.PI * (day + 10) / 365), c = (Math.sin(-0.833 * r) - Math.sin(lat) * Math.sin(dec)) / (Math.cos(lat) * Math.cos(dec)), half = Math.acos(Math.max(-1, Math.min(1, c))) / r / 15, std = Math.max(new Date(y, 0, 1).getTimezoneOffset(), new Date(y, 6, 1).getTimezoneOffset()), noon = 12 + (std - n.getTimezoneOffset()) / 60, h = n.getHours() + n.getMinutes() / 60; m = h > noon - half && h < noon + half ? 'light' : 'dark'; } catch (e) { m = 'light'; } } d.dataset.mode = m; })();
@@ -64,6 +64,6 @@
   <small>© 2026 Chris Truong · Baltimore</small>
 </footer>
 
-<script type="module" src="/assets/site.js?v=20261008003501"></script>
+<script type="module" src="/assets/site.js?v=20261008004250"></script>
 </body>
 </html>

diff --git a/assets/vox2-charts.js b/assets/vox2-charts.js
@@ -1,7 +1,7 @@
 /* The two testing graphics on the Vox2 page, made interactive.
    Both draw in var(--accent), so they follow the theme picker. Without JS the static versions stay. */
 
-import { markSelected } from '/assets/site.js?v=20261008003501';
+import { markSelected } from '/assets/site.js?v=20261008004250';
 
 /* ---------- the ladder: click a level to see what it would show you for one real kind of mistake ---------- */
 // The example: "I can't make it to dinner tonight" → Spanish, with the "not" dropped (meaning reversed).
